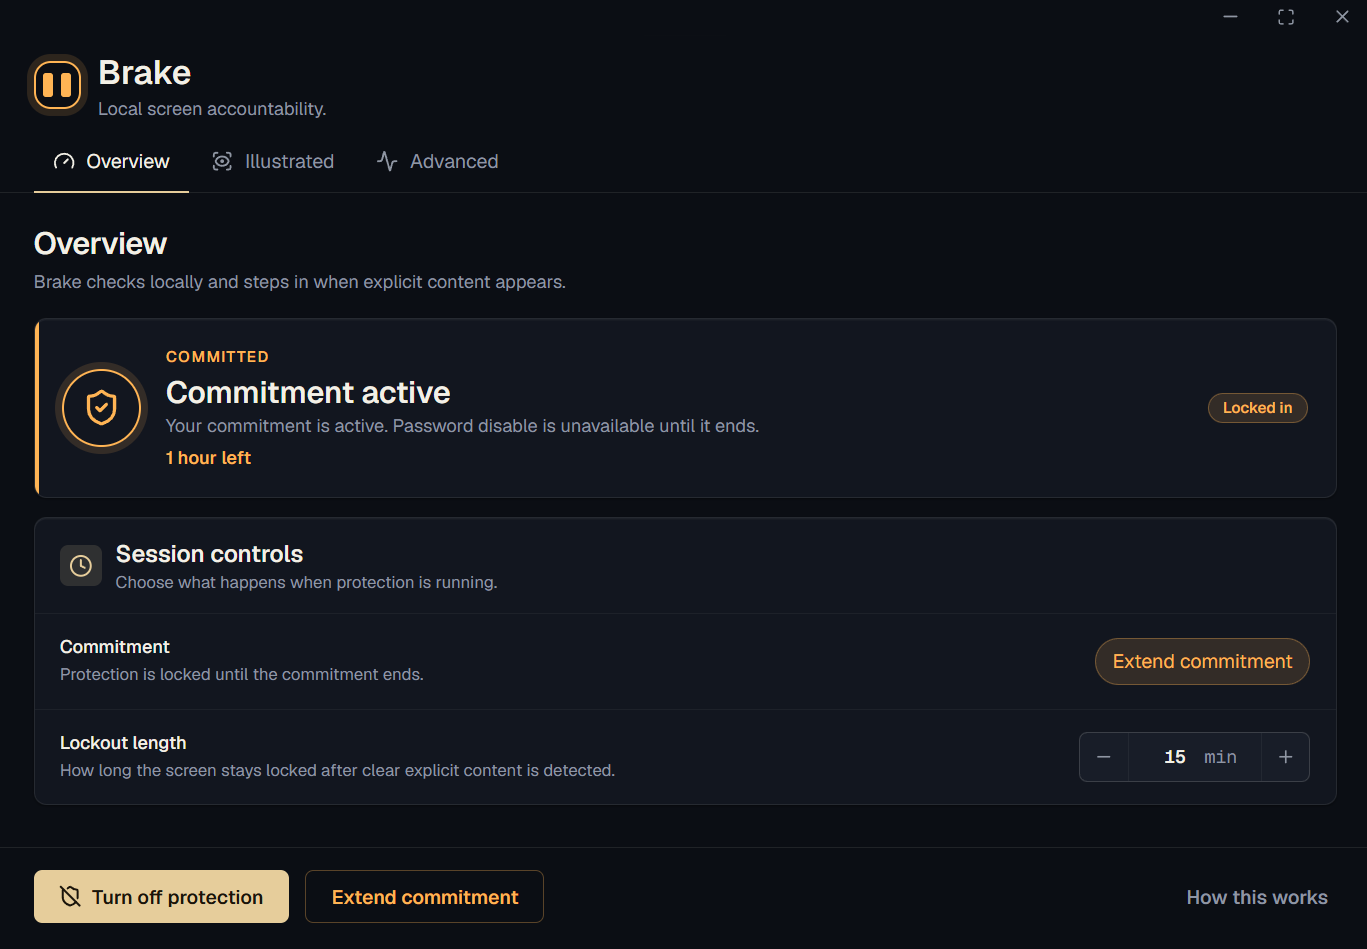
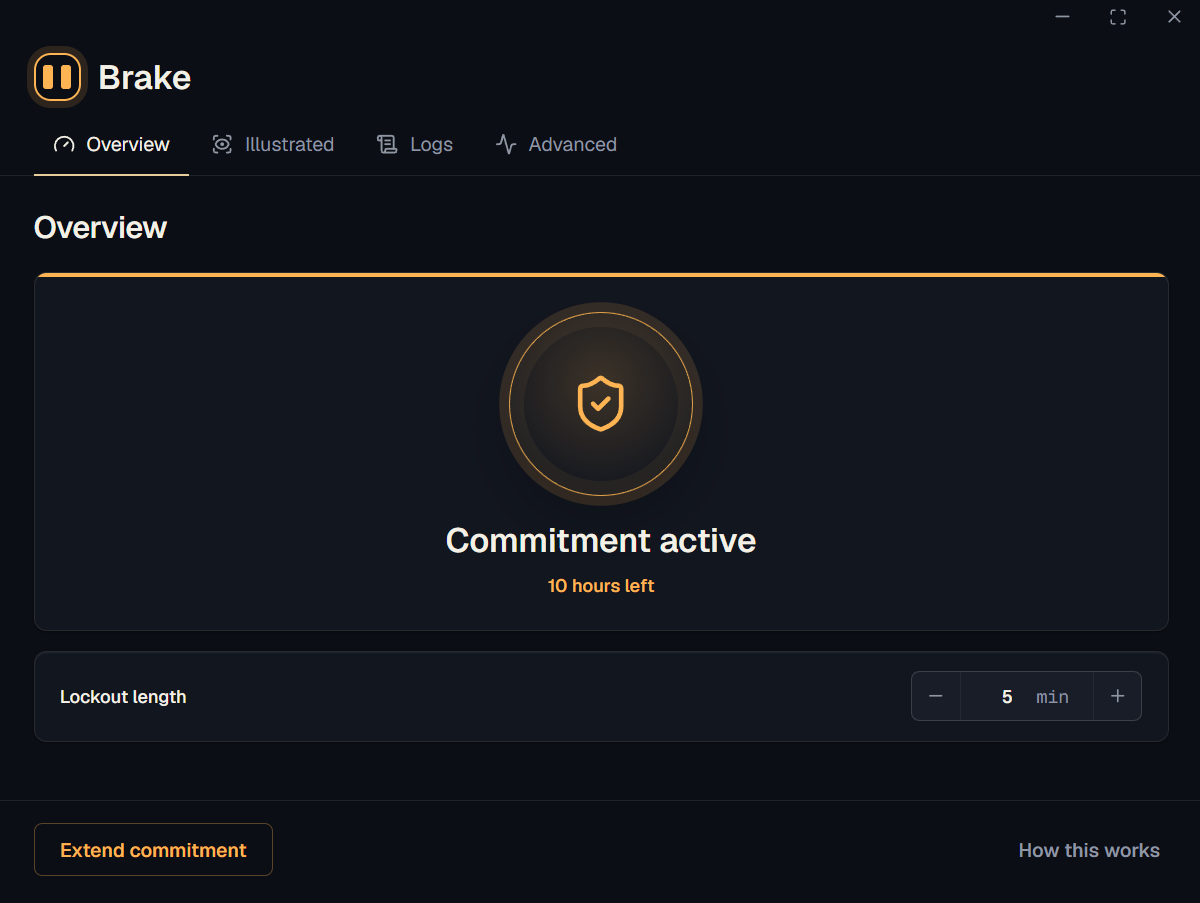
Update hero screenshot

diff --git a/index.html b/index.html
@@ -155,7 +155,7 @@
       <div data-reveal="" style="transition-delay: 160ms; flex: 1 1 380px; min-width: 300px; position: relative;">
         <div style="position: absolute; inset: -8% -4% -10% -4%; background: radial-gradient(60% 55% at 60% 20%, rgba(230,205,155,0.14), rgba(230,205,155,0) 70%); filter: blur(6px); pointer-events: none;"></div>
         <div style="position: relative; border: 1px solid var(--border-strong); border-radius: var(--r-lg); overflow: hidden; box-shadow: var(--sh-3), var(--inner-top); background: var(--surface-sink);">
-          <img src="./brakeoverview-mqfn4y6g.png" alt="Brake overview screen showing protection status and session controls" style="width: 100%; height: auto; display: block;">
+          <img src="./brakeoverview-mqfn4y6g.png" alt="Brake overview screen showing an active commitment" style="width: 100%; height: auto; display: block;">
         </div>
       </div>
     </div>